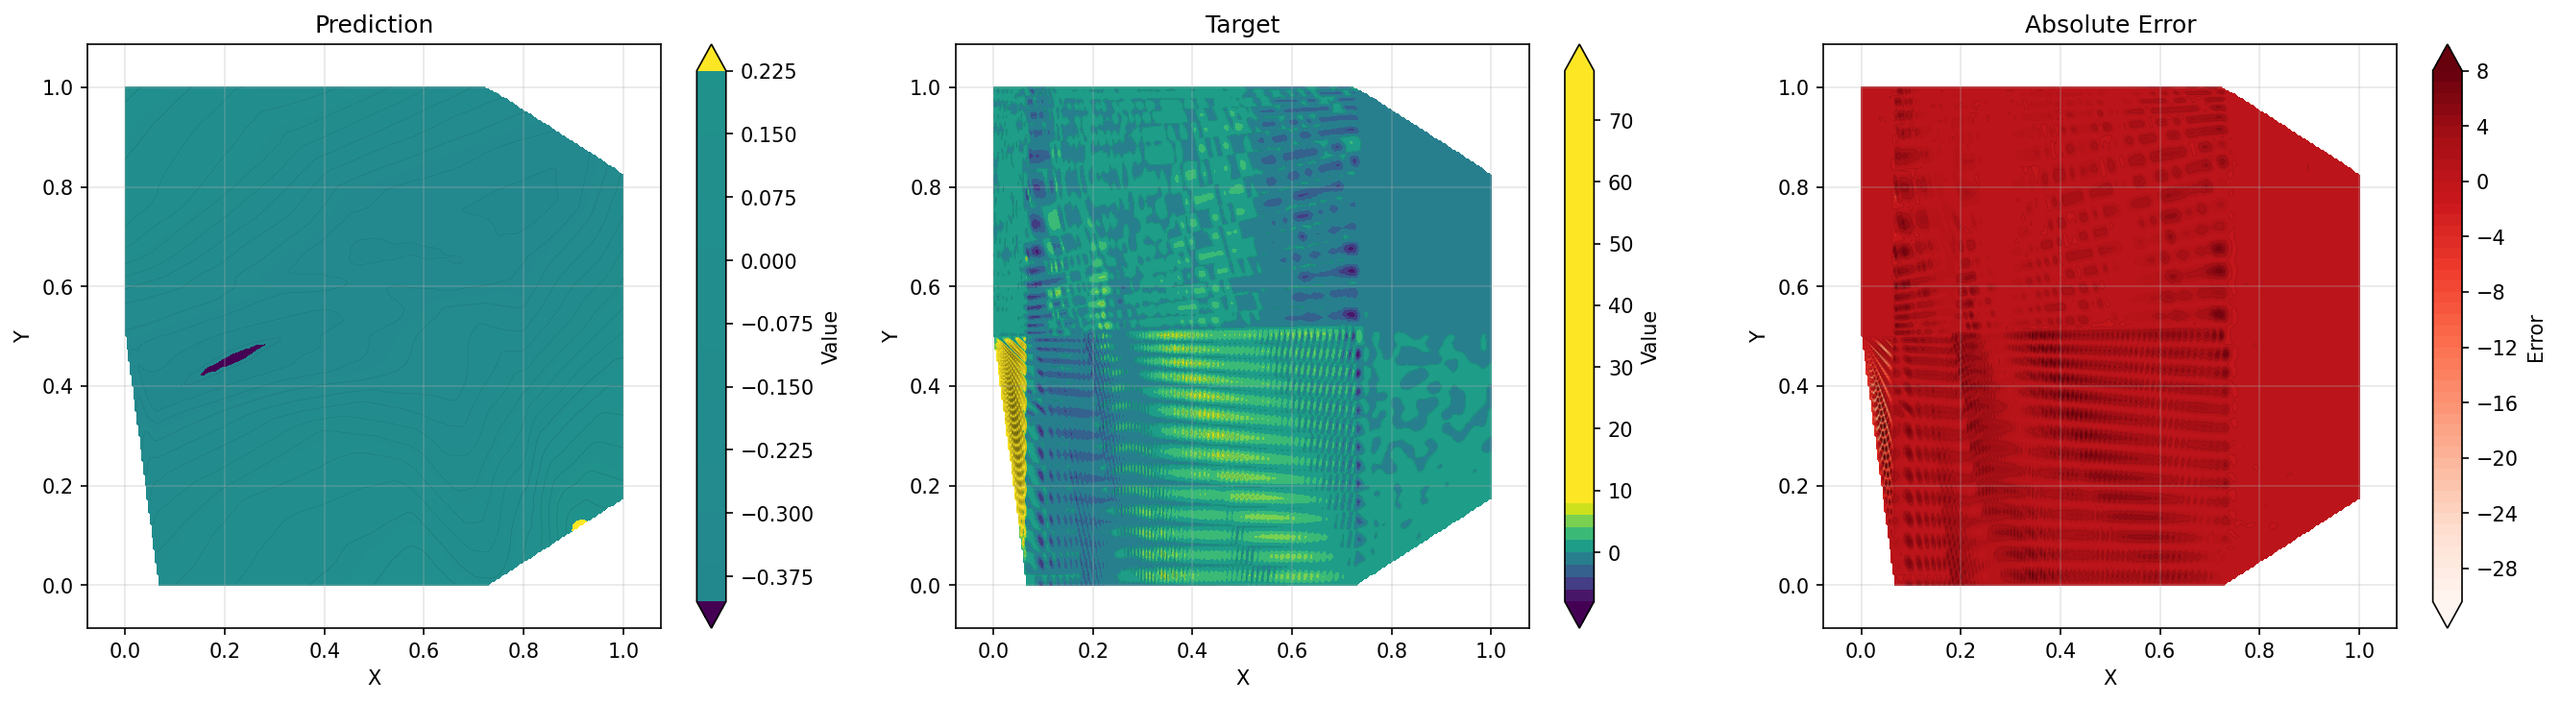
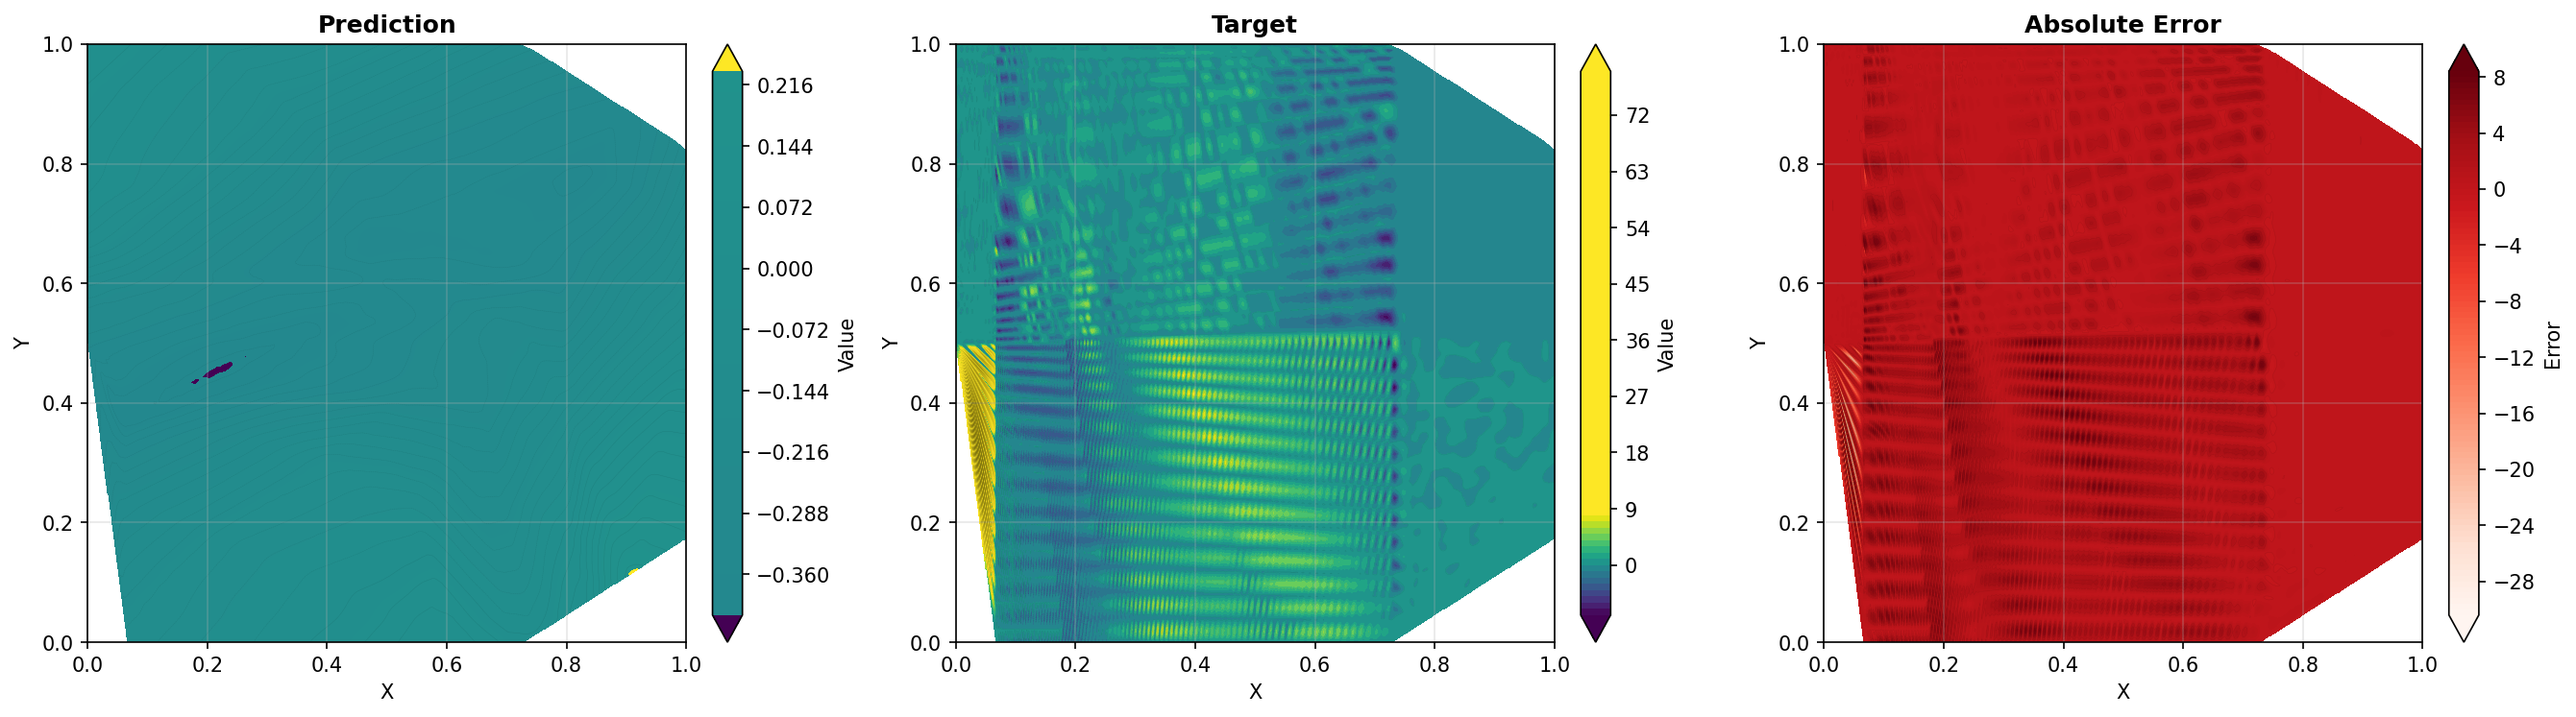
update visualisation

Changed region(s): [[0.0, 0.0, 0.654, 0.9317], [0.6852, 0.0, 0.9966, 0.9317]]

diff --git a/visualize_results.py b/visualize_results.py
@@ -51,21 +51,39 @@ def visualize_data_overview(data_path, output_dir='results/visualizations'):
     feature_names = ['u-velocity', 'v-velocity', 'pressure']
     colormaps = ['viridis', 'coolwarm', 'plasma']
     
+    # Calculate domain aspect ratio for proper figure sizing
+    x_range = node_positions[:, 0].max() - node_positions[:, 0].min()
+    y_range = node_positions[:, 1].max() - node_positions[:, 1].min()
+    aspect_ratio = x_range / y_range if y_range > 0 else 1.0
+    
+    # Calculate figure size based on aspect ratio
+    base_height = 6.0
+    base_width = 8.0  # Width per subplot
+    total_width = base_width * 2  # 2 subplots
+    total_height = base_height
+    
+    # Adjust height to match aspect ratio if needed
+    if aspect_ratio > 2.0:
+        total_height = base_height
+    elif aspect_ratio < 0.5:
+        total_height = base_height * (1.0 / aspect_ratio)
+        total_height = min(total_height, 12.0)  # Cap at reasonable max
+    
     for feature_idx in range(min(num_features, 3)):
-        fig, axes = plt.subplots(1, 2, figsize=(16, 6))
+        fig, axes = plt.subplots(1, 2, figsize=(total_width, total_height))
         
         for idx, t in enumerate([0, num_timesteps - 1]):
             values = flow_fields[t, :, feature_idx]
             
-            # Interpolate to regular grid for smooth ParaView-like contours
+            # Interpolate to regular grid for smooth continuous contours (high resolution)
             X_grid, Y_grid, Z_grid = interpolate_to_grid(
-                node_positions, values, grid_resolution=300
+                node_positions, values, grid_resolution=600
             )
             
-            # Use regular contourf for smooth appearance
+            # Use regular contourf for smooth continuous appearance (high resolution)
             contour = axes[idx].contourf(
                 X_grid, Y_grid, Z_grid,
-                levels=50,
+                levels=100,  # Increased for smoother appearance
                 cmap=colormaps[feature_idx],
                 vmin=flow_fields[:, :, feature_idx].min(),
                 vmax=flow_fields[:, :, feature_idx].max(),
@@ -74,23 +92,71 @@ def visualize_data_overview(data_path, output_dir='results/visualizations'):
             # Add subtle contour lines
             axes[idx].contour(
                 X_grid, Y_grid, Z_grid,
-                levels=20,
+                levels=30,  # Increased for smoother appearance
                 colors='black',
-                alpha=0.15,
-                linewidths=0.3
+                alpha=0.1,  # Reduced opacity
+                linewidths=0.2
             )
-            plt.colorbar(contour, ax=axes[idx], label=feature_names[feature_idx])
-            axes[idx].set_title(f'{feature_names[feature_idx]} at t={t} (timestep {t})', fontsize=12)
+            plt.colorbar(contour, ax=axes[idx], label=feature_names[feature_idx], 
+                        fraction=0.046, pad=0.04)
+            axes[idx].set_title(f'{feature_names[feature_idx]} at t={t} (timestep {t})', 
+                              fontsize=12, fontweight='bold')
             axes[idx].set_xlabel('X', fontsize=10)
             axes[idx].set_ylabel('Y', fontsize=10)
-            axes[idx].axis('equal')
+            axes[idx].set_aspect('equal', adjustable='box')
             axes[idx].grid(True, alpha=0.3)
         
         plt.tight_layout()
         plt.savefig(f'{output_dir}/02_{feature_names[feature_idx].replace("-", "_")}_evolution.png', 
-                   dpi=150, bbox_inches='tight')
+                   dpi=150, bbox_inches='tight', facecolor='white')
         plt.close()
         print(f"Saved: {output_dir}/02_{feature_names[feature_idx].replace("-", "_")}_evolution.png")
+    
+    # Visualize velocity magnitude if u and v are available
+    if num_features >= 2:
+        fig, axes = plt.subplots(1, 2, figsize=(total_width, total_height))
+        
+        for idx, t in enumerate([0, num_timesteps - 1]):
+            u_values = flow_fields[t, :, 0]
+            v_values = flow_fields[t, :, 1]
+            magnitude = np.sqrt(u_values**2 + v_values**2)
+            
+            # Interpolate to regular grid for smooth continuous contours
+            X_grid, Y_grid, Z_grid = interpolate_to_grid(
+                node_positions, magnitude, grid_resolution=600
+            )
+            
+            # Use regular contourf for smooth continuous appearance
+            contour = axes[idx].contourf(
+                X_grid, Y_grid, Z_grid,
+                levels=100,
+                cmap='plasma',
+                vmin=0,
+                vmax=magnitude.max(),
+                extend='both'
+            )
+            # Add subtle contour lines
+            axes[idx].contour(
+                X_grid, Y_grid, Z_grid,
+                levels=30,
+                colors='black',
+                alpha=0.1,
+                linewidths=0.2
+            )
+            plt.colorbar(contour, ax=axes[idx], label='Velocity Magnitude', 
+                        fraction=0.046, pad=0.04)
+            axes[idx].set_title(f'Velocity Magnitude at t={t} (timestep {t})', 
+                              fontsize=12, fontweight='bold')
+            axes[idx].set_xlabel('X', fontsize=10)
+            axes[idx].set_ylabel('Y', fontsize=10)
+            axes[idx].set_aspect('equal', adjustable='box')
+            axes[idx].grid(True, alpha=0.3)
+        
+        plt.tight_layout()
+        plt.savefig(f'{output_dir}/02_velocity_magnitude_evolution.png', 
+                   dpi=150, bbox_inches='tight', facecolor='white')
+        plt.close()
+        print(f"Saved: {output_dir}/02_velocity_magnitude_evolution.png")
     
     # Time series at a few selected points
     num_sample_points = 5
@@ -248,6 +314,33 @@ def visualize_predictions(config_path, checkpoint_path, output_dir='results/visu
                         node_pos_np,
                         timestep=0,
                         feature_idx=feature_idx,
+                        save_path=save_path
+                    )
+                    print(f"Saved: {save_path}")
+            
+            # Visualize velocity magnitude if u and v are available
+            if pred_np.shape[2] >= 2:
+                for timestep in range(min(pred_np.shape[0], 3)):
+                    # Calculate velocity magnitude: |V| = sqrt(u^2 + v^2)
+                    pred_u = pred_np[timestep, :, 0]
+                    pred_v = pred_np[timestep, :, 1]
+                    pred_magnitude = np.sqrt(pred_u**2 + pred_v**2)
+                    
+                    target_u = target_np[timestep, :, 0]
+                    target_v = target_np[timestep, :, 1]
+                    target_magnitude = np.sqrt(target_u**2 + target_v**2)
+                    
+                    # Create magnitude arrays with same shape as original
+                    pred_mag_array = pred_magnitude.reshape(1, -1, 1)  # [1, num_nodes, 1]
+                    target_mag_array = target_magnitude.reshape(1, -1, 1)
+                    
+                    save_path = f'{output_dir}/prediction_sample{sample_count}_velocity_magnitude_timestep{timestep}.png'
+                    visualize_prediction_comparison(
+                        pred_mag_array,
+                        target_mag_array,
+                        node_pos_np,
+                        timestep=0,
+                        feature_idx=0,
                         save_path=save_path
                     )
                     print(f"Saved: {save_path}")

diff --git a/utils.py b/utils.py
@@ -52,7 +52,7 @@ def compute_metrics(predictions, targets):
     return metrics
 
 
-def interpolate_to_grid(node_positions, values, grid_resolution=200):
+def interpolate_to_grid(node_positions, values, grid_resolution=600):
     """
     Interpolate unstructured mesh data to regular grid for smooth contour plots.
     
@@ -77,13 +77,24 @@ def interpolate_to_grid(node_positions, values, grid_resolution=200):
     X_grid, Y_grid = np.meshgrid(x_grid, y_grid)
     
     # Interpolate using cubic interpolation for smoothness
-    Z_grid = griddata(
-        node_positions,
-        values,
-        (X_grid, Y_grid),
-        method='cubic',
-        fill_value=np.nan  # Fill outside domain with NaN
-    )
+    # Try cubic first, fall back to linear if cubic fails
+    try:
+        Z_grid = griddata(
+            node_positions,
+            values,
+            (X_grid, Y_grid),
+            method='cubic',
+            fill_value=np.nan  # Fill outside domain with NaN
+        )
+    except:
+        # Fallback to linear if cubic fails
+        Z_grid = griddata(
+            node_positions,
+            values,
+            (X_grid, Y_grid),
+            method='linear',
+            fill_value=np.nan
+        )
     
     return X_grid, Y_grid, Z_grid
 
@@ -96,8 +107,8 @@ def visualize_flow_field(
     save_path=None,
     vmin=None,
     vmax=None,
-    use_contour=True,
-    grid_resolution=300
+        use_contour=True,
+        grid_resolution=600
 ):
     """
     Visualize flow field on unstructured mesh with smooth ParaView-like contours.
@@ -179,10 +190,10 @@ def visualize_prediction_comparison(
     timestep=0,
     feature_idx=0,
     save_path=None,
-    grid_resolution=300
+        grid_resolution=600
 ):
     """
-    Visualize comparison between predictions and targets using smooth ParaView-like contours.
+    Visualize comparison between predictions and targets using smooth continuous contour plots.
     
     Args:
         predictions: Predicted flow fields [timesteps, nodes, features] or [nodes, features]
@@ -216,18 +227,38 @@ def visualize_prediction_comparison(
     vmax = max(pred_values.max(), target_values.max())
     cmap = 'viridis'
     
-    # Interpolate all fields to grid
+    # Calculate domain aspect ratio for proper figure sizing
+    x_range = node_positions[:, 0].max() - node_positions[:, 0].min()
+    y_range = node_positions[:, 1].max() - node_positions[:, 1].min()
+    aspect_ratio = x_range / y_range if y_range > 0 else 1.0
+    
+    # Calculate figure size based on aspect ratio (maintain reasonable size)
+    base_height = 5.0
+    base_width = 6.0  # Width per subplot
+    total_width = base_width * 3  # 3 subplots
+    total_height = base_height
+    
+    # Adjust height to match aspect ratio if needed (but keep reasonable limits)
+    if aspect_ratio > 2.0:
+        # Very wide domain - keep height reasonable
+        total_height = base_height
+    elif aspect_ratio < 0.5:
+        # Very tall domain - increase height
+        total_height = base_height * (1.0 / aspect_ratio)
+        total_height = min(total_height, 10.0)  # Cap at reasonable max
+    
+    # Interpolate all fields to grid for continuous visualization (high resolution for smoothness)
     X_pred, Y_pred, Z_pred = interpolate_to_grid(node_positions, pred_values, grid_resolution)
     X_target, Y_target, Z_target = interpolate_to_grid(node_positions, target_values, grid_resolution)
     X_error, Y_error, Z_error = interpolate_to_grid(node_positions, error, grid_resolution)
     
-    # Create subplots
-    fig, axes = plt.subplots(1, 3, figsize=(18, 5))
+    # Create subplots with proper aspect ratio
+    fig, axes = plt.subplots(1, 3, figsize=(total_width, total_height))
     
-    # Prediction
+    # Prediction - use more levels for smoother appearance
     contour1 = axes[0].contourf(
         X_pred, Y_pred, Z_pred,
-        levels=50,
+        levels=100,  # Increased from 50 for smoother appearance
         cmap=cmap,
         vmin=vmin,
         vmax=vmax,
@@ -235,22 +266,22 @@ def visualize_prediction_comparison(
     )
     axes[0].contour(
         X_pred, Y_pred, Z_pred,
-        levels=20,
+        levels=30,  # Increased from 20
         colors='black',
-        alpha=0.15,
-        linewidths=0.3
+        alpha=0.1,  # Reduced opacity for smoother look
+        linewidths=0.2
     )
-    plt.colorbar(contour1, ax=axes[0], label='Value')
-    axes[0].set_title('Prediction')
-    axes[0].set_xlabel('X')
-    axes[0].set_ylabel('Y')
-    axes[0].axis('equal')
+    plt.colorbar(contour1, ax=axes[0], label='Value', fraction=0.046, pad=0.04)
+    axes[0].set_title('Prediction', fontsize=12, fontweight='bold')
+    axes[0].set_xlabel('X', fontsize=10)
+    axes[0].set_ylabel('Y', fontsize=10)
+    axes[0].set_aspect('equal', adjustable='box')
     axes[0].grid(True, alpha=0.3)
     
-    # Target
+    # Target - use more levels for smoother appearance
     contour2 = axes[1].contourf(
         X_target, Y_target, Z_target,
-        levels=50,
+        levels=100,  # Increased from 50 for smoother appearance
         cmap=cmap,
         vmin=vmin,
         vmax=vmax,
@@ -258,43 +289,43 @@ def visualize_prediction_comparison(
     )
     axes[1].contour(
         X_target, Y_target, Z_target,
-        levels=20,
+        levels=30,  # Increased from 20
         colors='black',
-        alpha=0.15,
-        linewidths=0.3
+        alpha=0.1,  # Reduced opacity for smoother look
+        linewidths=0.2
     )
-    plt.colorbar(contour2, ax=axes[1], label='Value')
-    axes[1].set_title('Target')
-    axes[1].set_xlabel('X')
-    axes[1].set_ylabel('Y')
-    axes[1].axis('equal')
+    plt.colorbar(contour2, ax=axes[1], label='Value', fraction=0.046, pad=0.04)
+    axes[1].set_title('Target', fontsize=12, fontweight='bold')
+    axes[1].set_xlabel('X', fontsize=10)
+    axes[1].set_ylabel('Y', fontsize=10)
+    axes[1].set_aspect('equal', adjustable='box')
     axes[1].grid(True, alpha=0.3)
     
-    # Error
+    # Error - use more levels for smoother appearance
     contour3 = axes[2].contourf(
         X_error, Y_error, Z_error,
-        levels=50,
+        levels=100,  # Increased from 50 for smoother appearance
         cmap='Reds',
         extend='both'
     )
     axes[2].contour(
         X_error, Y_error, Z_error,
-        levels=20,
+        levels=30,  # Increased from 20
         colors='black',
-        alpha=0.15,
-        linewidths=0.3
+        alpha=0.1,  # Reduced opacity for smoother look
+        linewidths=0.2
     )
-    plt.colorbar(contour3, ax=axes[2], label='Error')
-    axes[2].set_title('Absolute Error')
-    axes[2].set_xlabel('X')
-    axes[2].set_ylabel('Y')
-    axes[2].axis('equal')
+    plt.colorbar(contour3, ax=axes[2], label='Error', fraction=0.046, pad=0.04)
+    axes[2].set_title('Absolute Error', fontsize=12, fontweight='bold')
+    axes[2].set_xlabel('X', fontsize=10)
+    axes[2].set_ylabel('Y', fontsize=10)
+    axes[2].set_aspect('equal', adjustable='box')
     axes[2].grid(True, alpha=0.3)
     
     plt.tight_layout()
     
     if save_path:
-        plt.savefig(save_path, dpi=150, bbox_inches='tight')
+        plt.savefig(save_path, dpi=150, bbox_inches='tight', facecolor='white')
     
     plt.close()
 

diff --git a/evaluate.py b/evaluate.py
@@ -136,6 +136,33 @@ def main():
                             feature_idx=f,
                             save_path=save_path
                         )
+                    
+                    # Visualize velocity magnitude if u and v are available
+                    if pred_np.shape[2] >= 2:
+                        pred_u = pred_np[t, :, 0]
+                        pred_v = pred_np[t, :, 1]
+                        pred_magnitude = np.sqrt(pred_u**2 + pred_v**2)
+                        
+                        target_u = target_np[t, :, 0]
+                        target_v = target_np[t, :, 1]
+                        target_magnitude = np.sqrt(target_u**2 + target_v**2)
+                        
+                        # Create magnitude arrays with same shape as original
+                        pred_mag_array = pred_magnitude.reshape(1, -1, 1)
+                        target_mag_array = target_magnitude.reshape(1, -1, 1)
+                        
+                        save_path = os.path.join(
+                            args.output_dir,
+                            f'prediction_batch{batch_idx}_timestep{t}_velocity_magnitude.png'
+                        )
+                        visualize_prediction_comparison(
+                            pred_mag_array,
+                            target_mag_array,
+                            node_pos_np,
+                            timestep=0,
+                            feature_idx=0,
+                            save_path=save_path
+                        )
     
     # Compute metrics
     all_predictions = torch.cat(all_predictions, dim=0)
